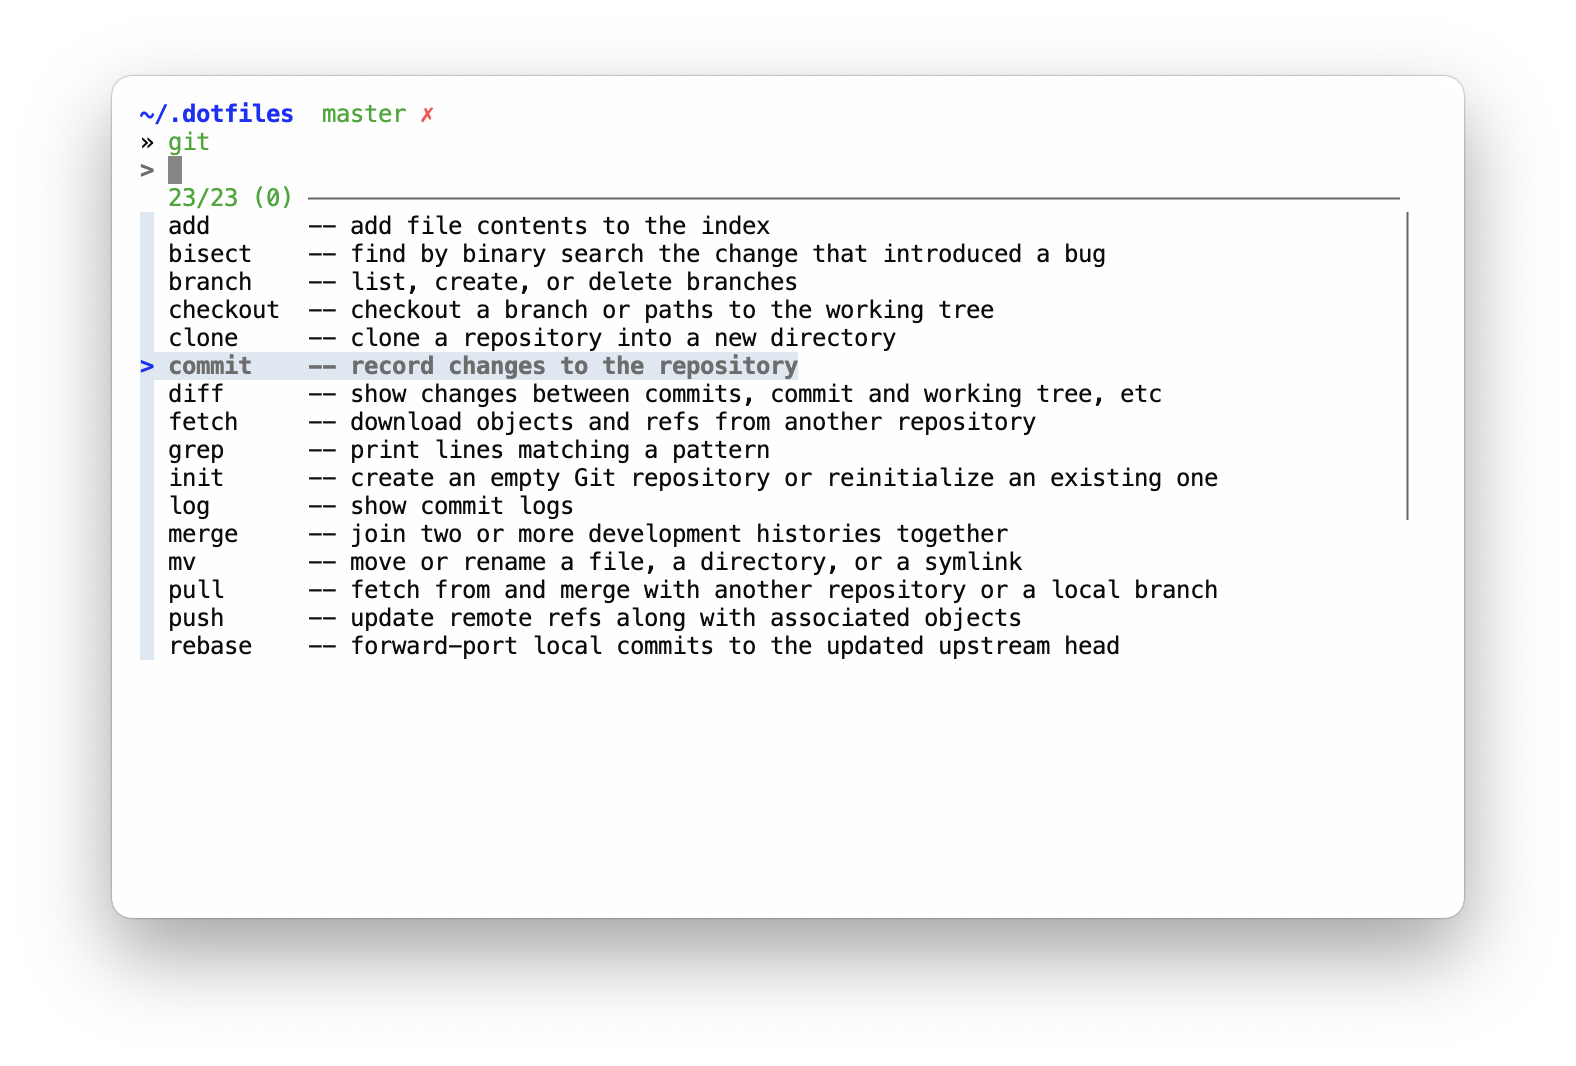
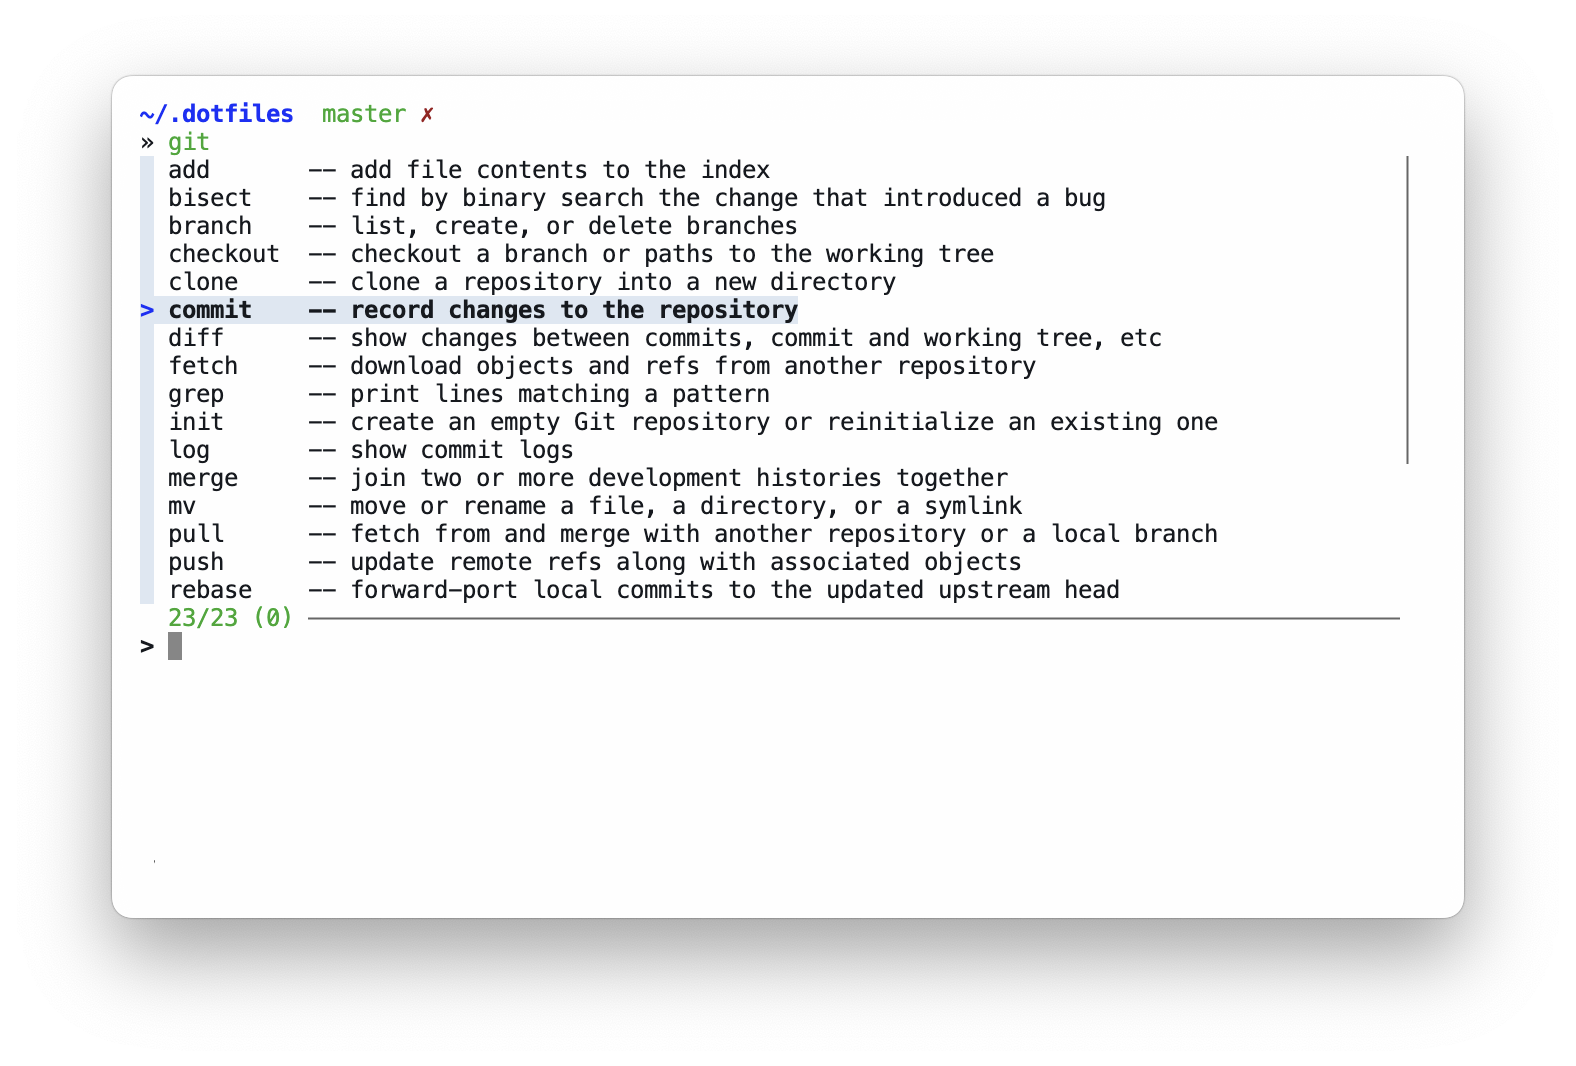
Fix descriptions

Changed region(s): [[0.0622, 0.1238, 0.7773, 0.6191]]

diff --git a/README.md b/README.md
@@ -58,11 +58,12 @@ Here's how my new `vscode` setup looks like, using my own theme called [`pustota
 
 ![sobolevn's vscode for Python](https://raw.githubusercontent.com/sobolevn/pustota/master/assets/minimal.png)
 
-Here's [a list of packages](https://github.com/sobolevn/dotfiles/blob/master/vscode/install.sh) I use:
+Here's [a list of packages](https://github.com/sobolevn/dotfiles/blob/master/Brewfile) (see `vscode` calls at the bottom) I use:
 
 - [`pustota`](https://github.com/sobolevn/pustota) theme
 - [`Python`](https://github.com/Microsoft/vscode-python) plugin
 - [`editorconfig`](https://editorconfig.org/) integration
+- [`drcika.apc-extension`](https://github.com/drcika/apc-extension) for better customization
 
 I try to keep my `vscode` setup as simple as possible.
 It was also heavily influenced by [`makevscodeawesome`](https://makevscodeawesome.com/).
